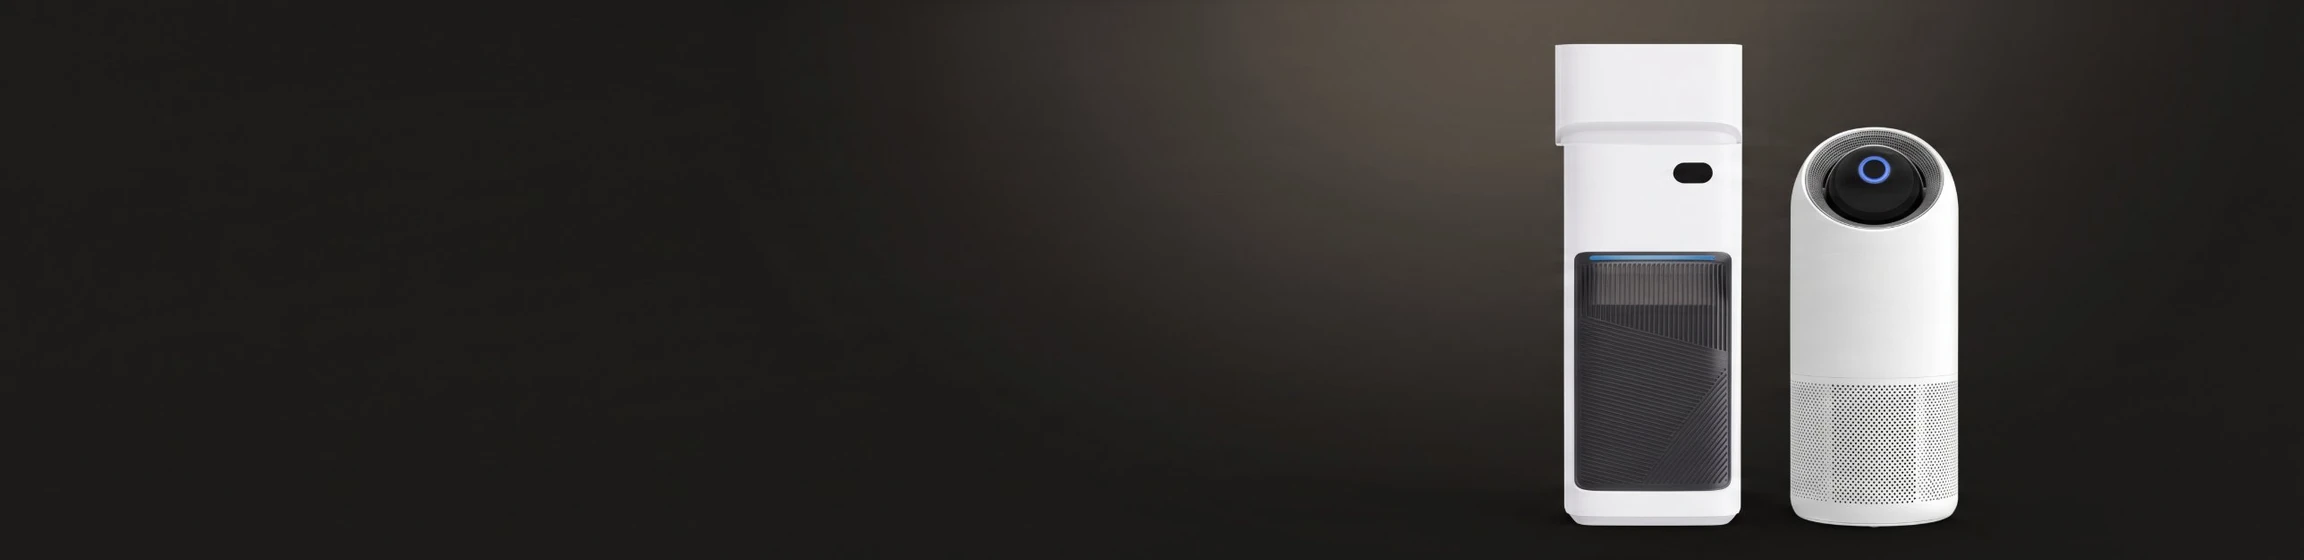
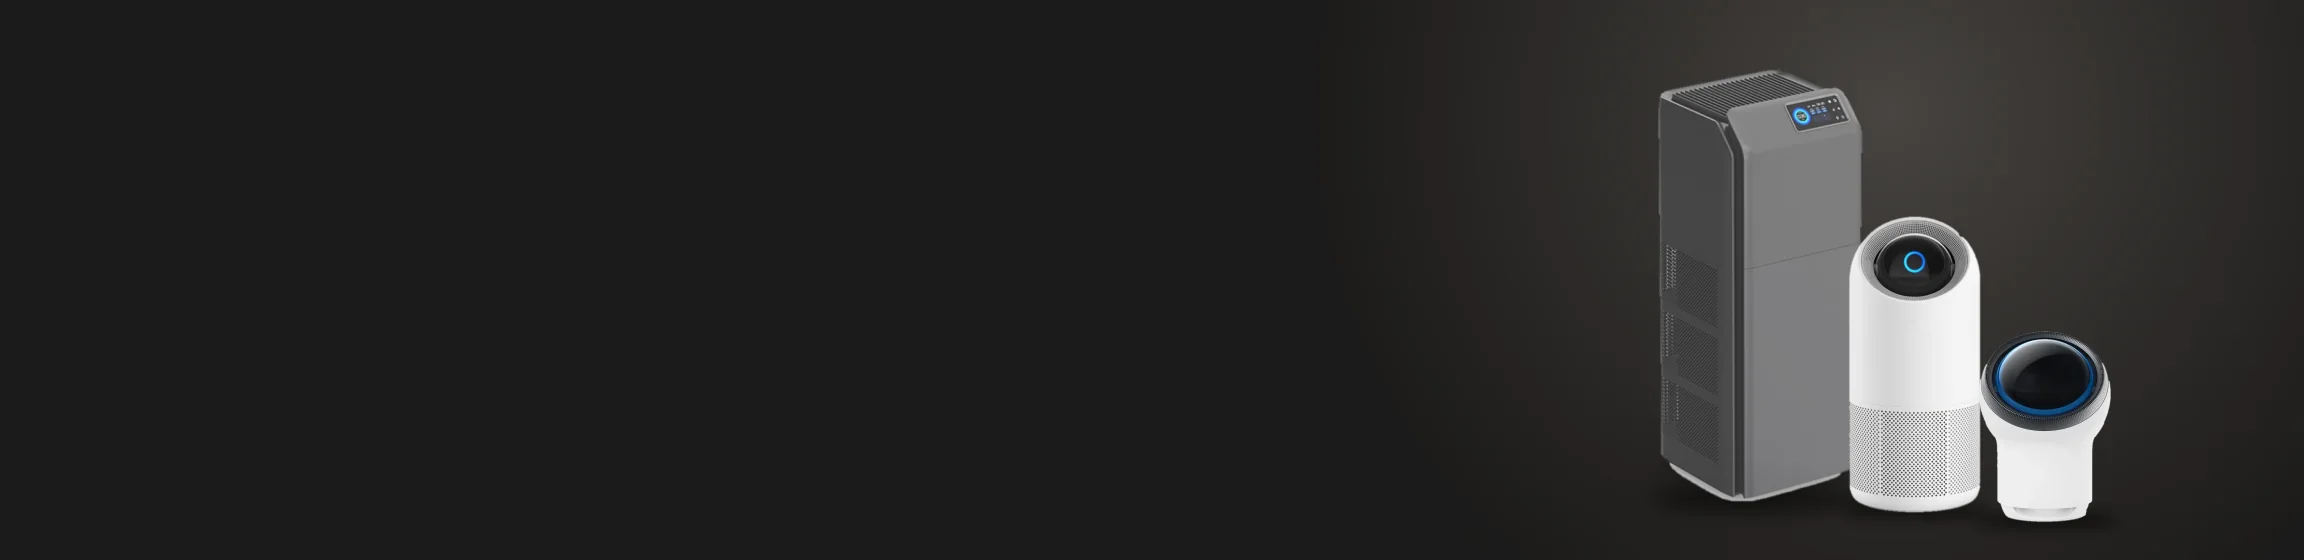
New Climate and Kitchen tiles with real BUCCARI products on graphite
Climate shows AIR-14, AIR-06 and AIR-09; Kitchen shows MIX-01 and gets
the same graphite tile and category header style as Climate.

Claude-Session: https://claude.ai/code/session_01TqWWTADSuTkvD1oF3oMqDr

Changed region(s): [[0.4375, 0.0, 0.9375, 0.9411]]

diff --git a/index.html b/index.html
@@ -446,7 +446,7 @@ var PRODUCTS = {
 var CATS = [
   {slug:"coffee",  icon:"coffee",   img:"img/hero.jpg"},
   {slug:"climate", icon:"purifier", cut:"img/climate-tile.webp", heroCut:"img/climate-hero.webp"},
-  {slug:"kitchen", icon:"mixer"}
+  {slug:"kitchen", icon:"mixer", cut:"img/kitchen-tile.webp", heroCut:"img/kitchen-hero.webp"}
 ];
 
 var CAT = {
